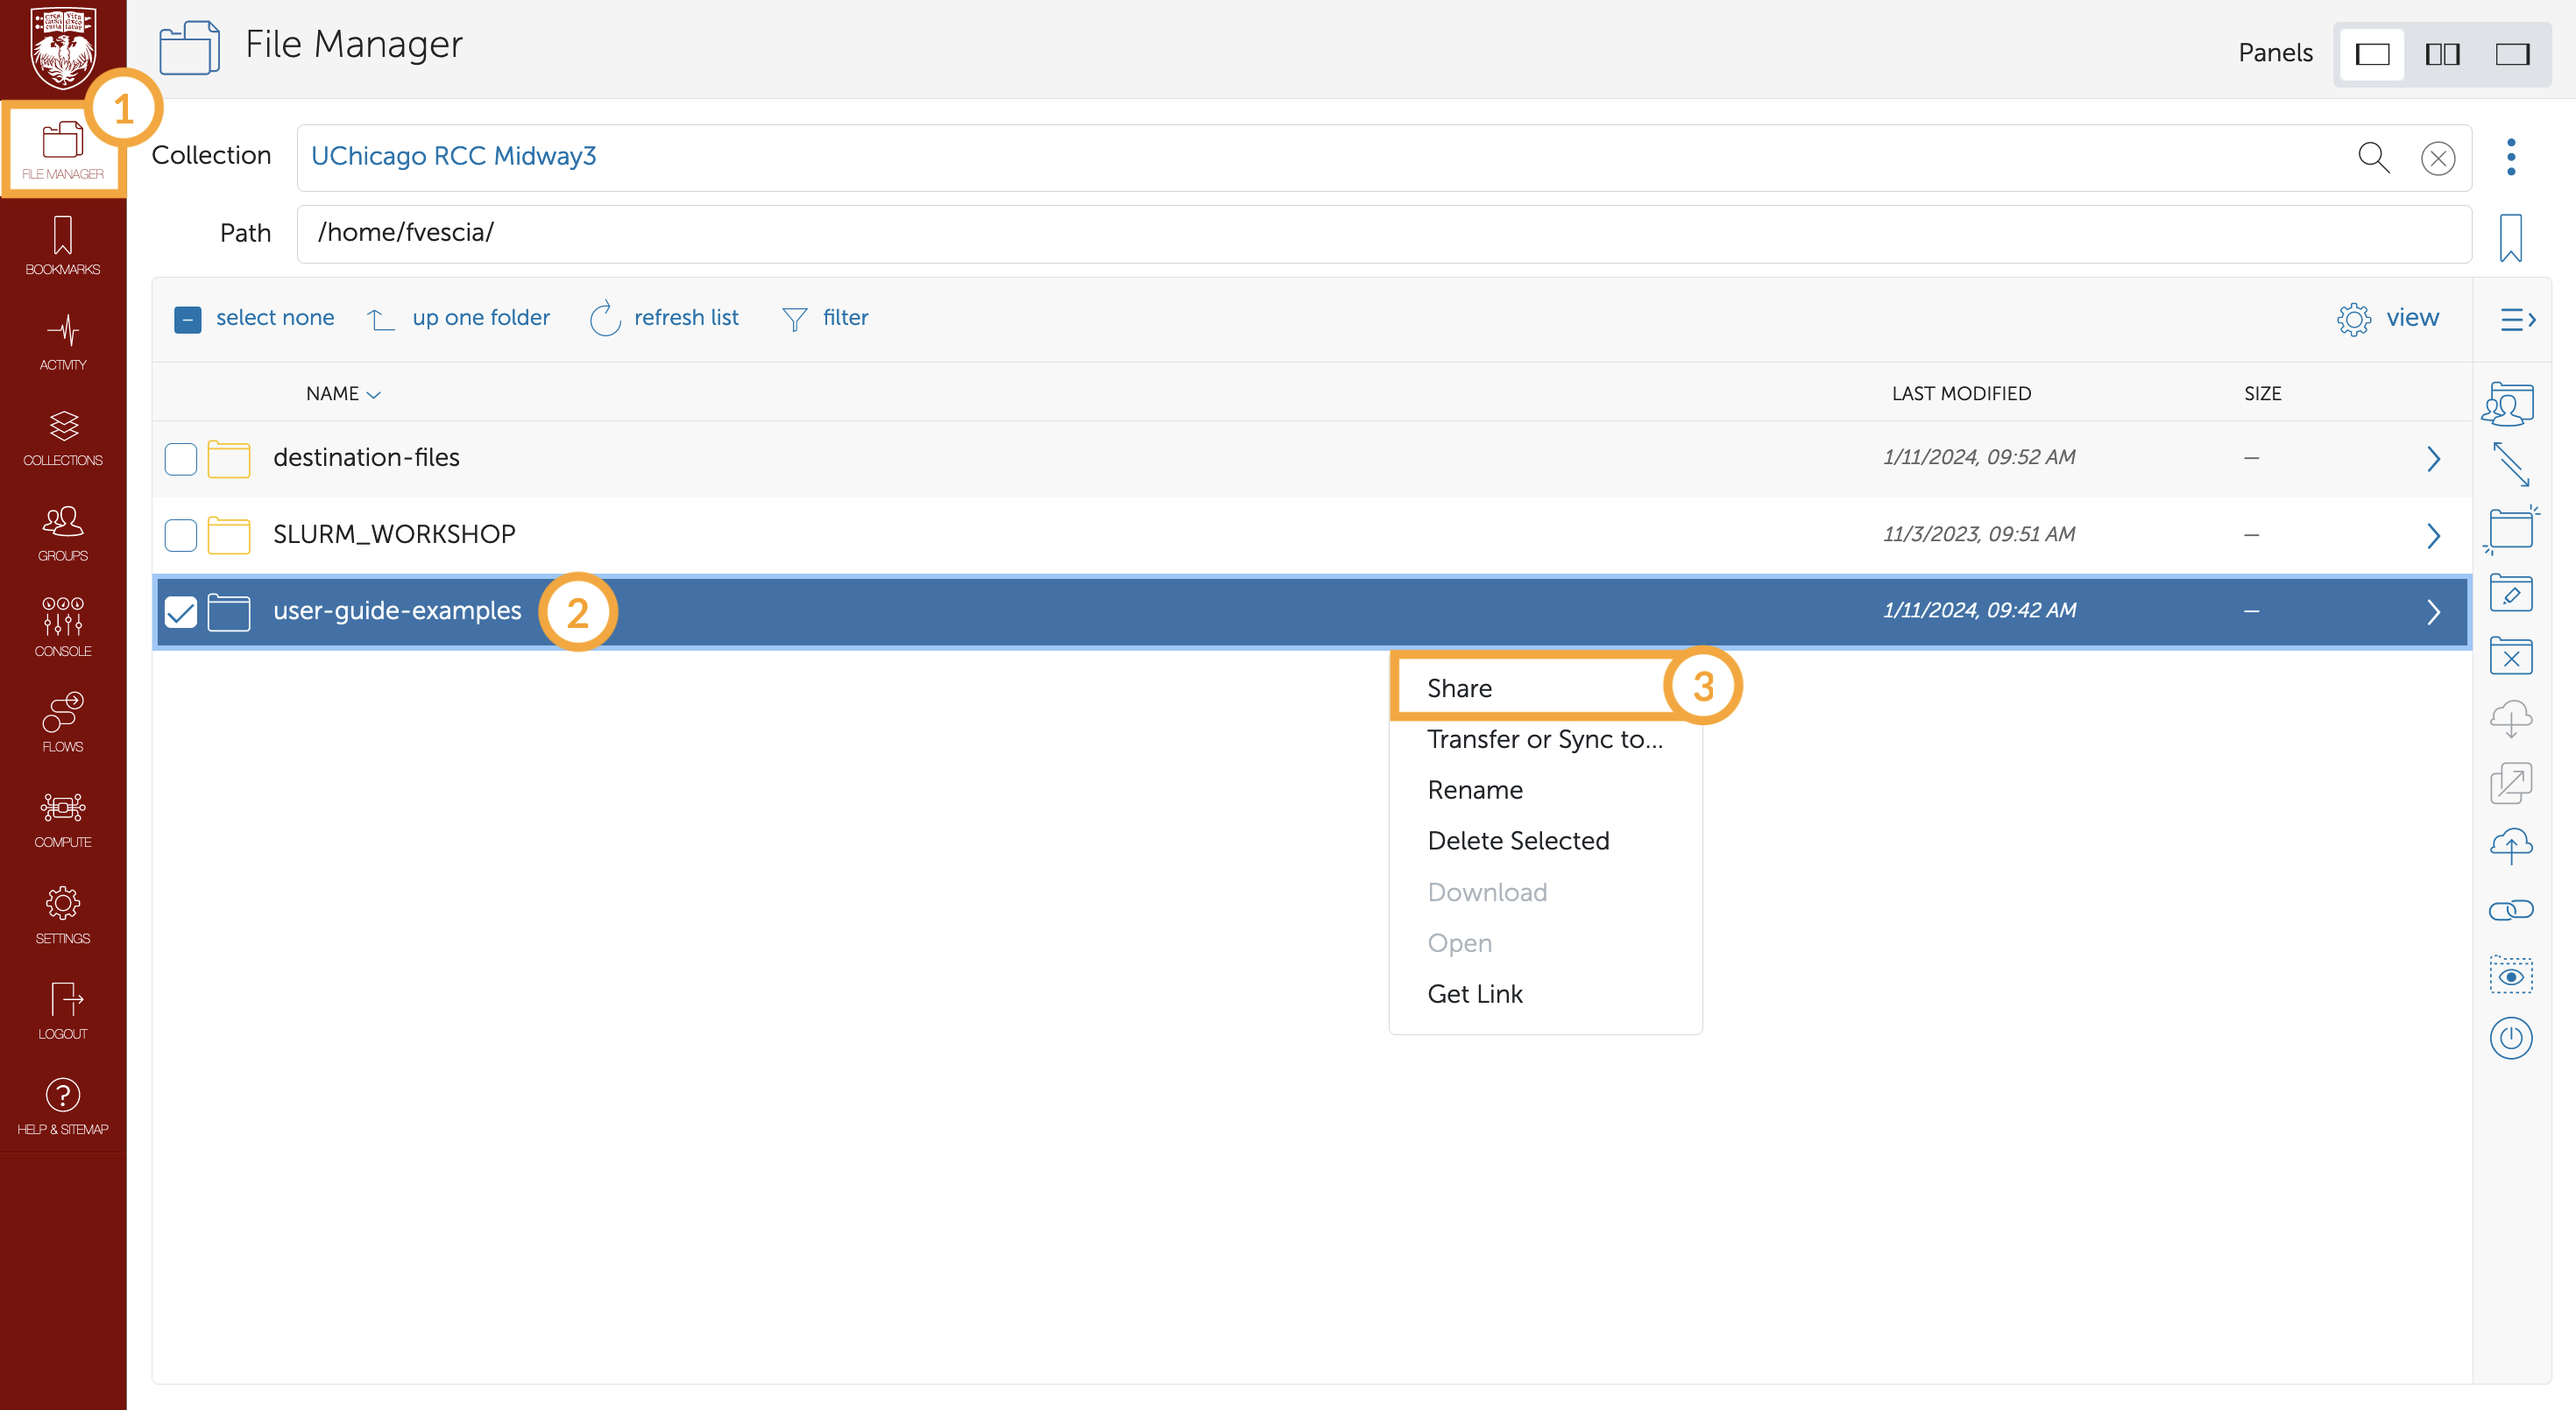
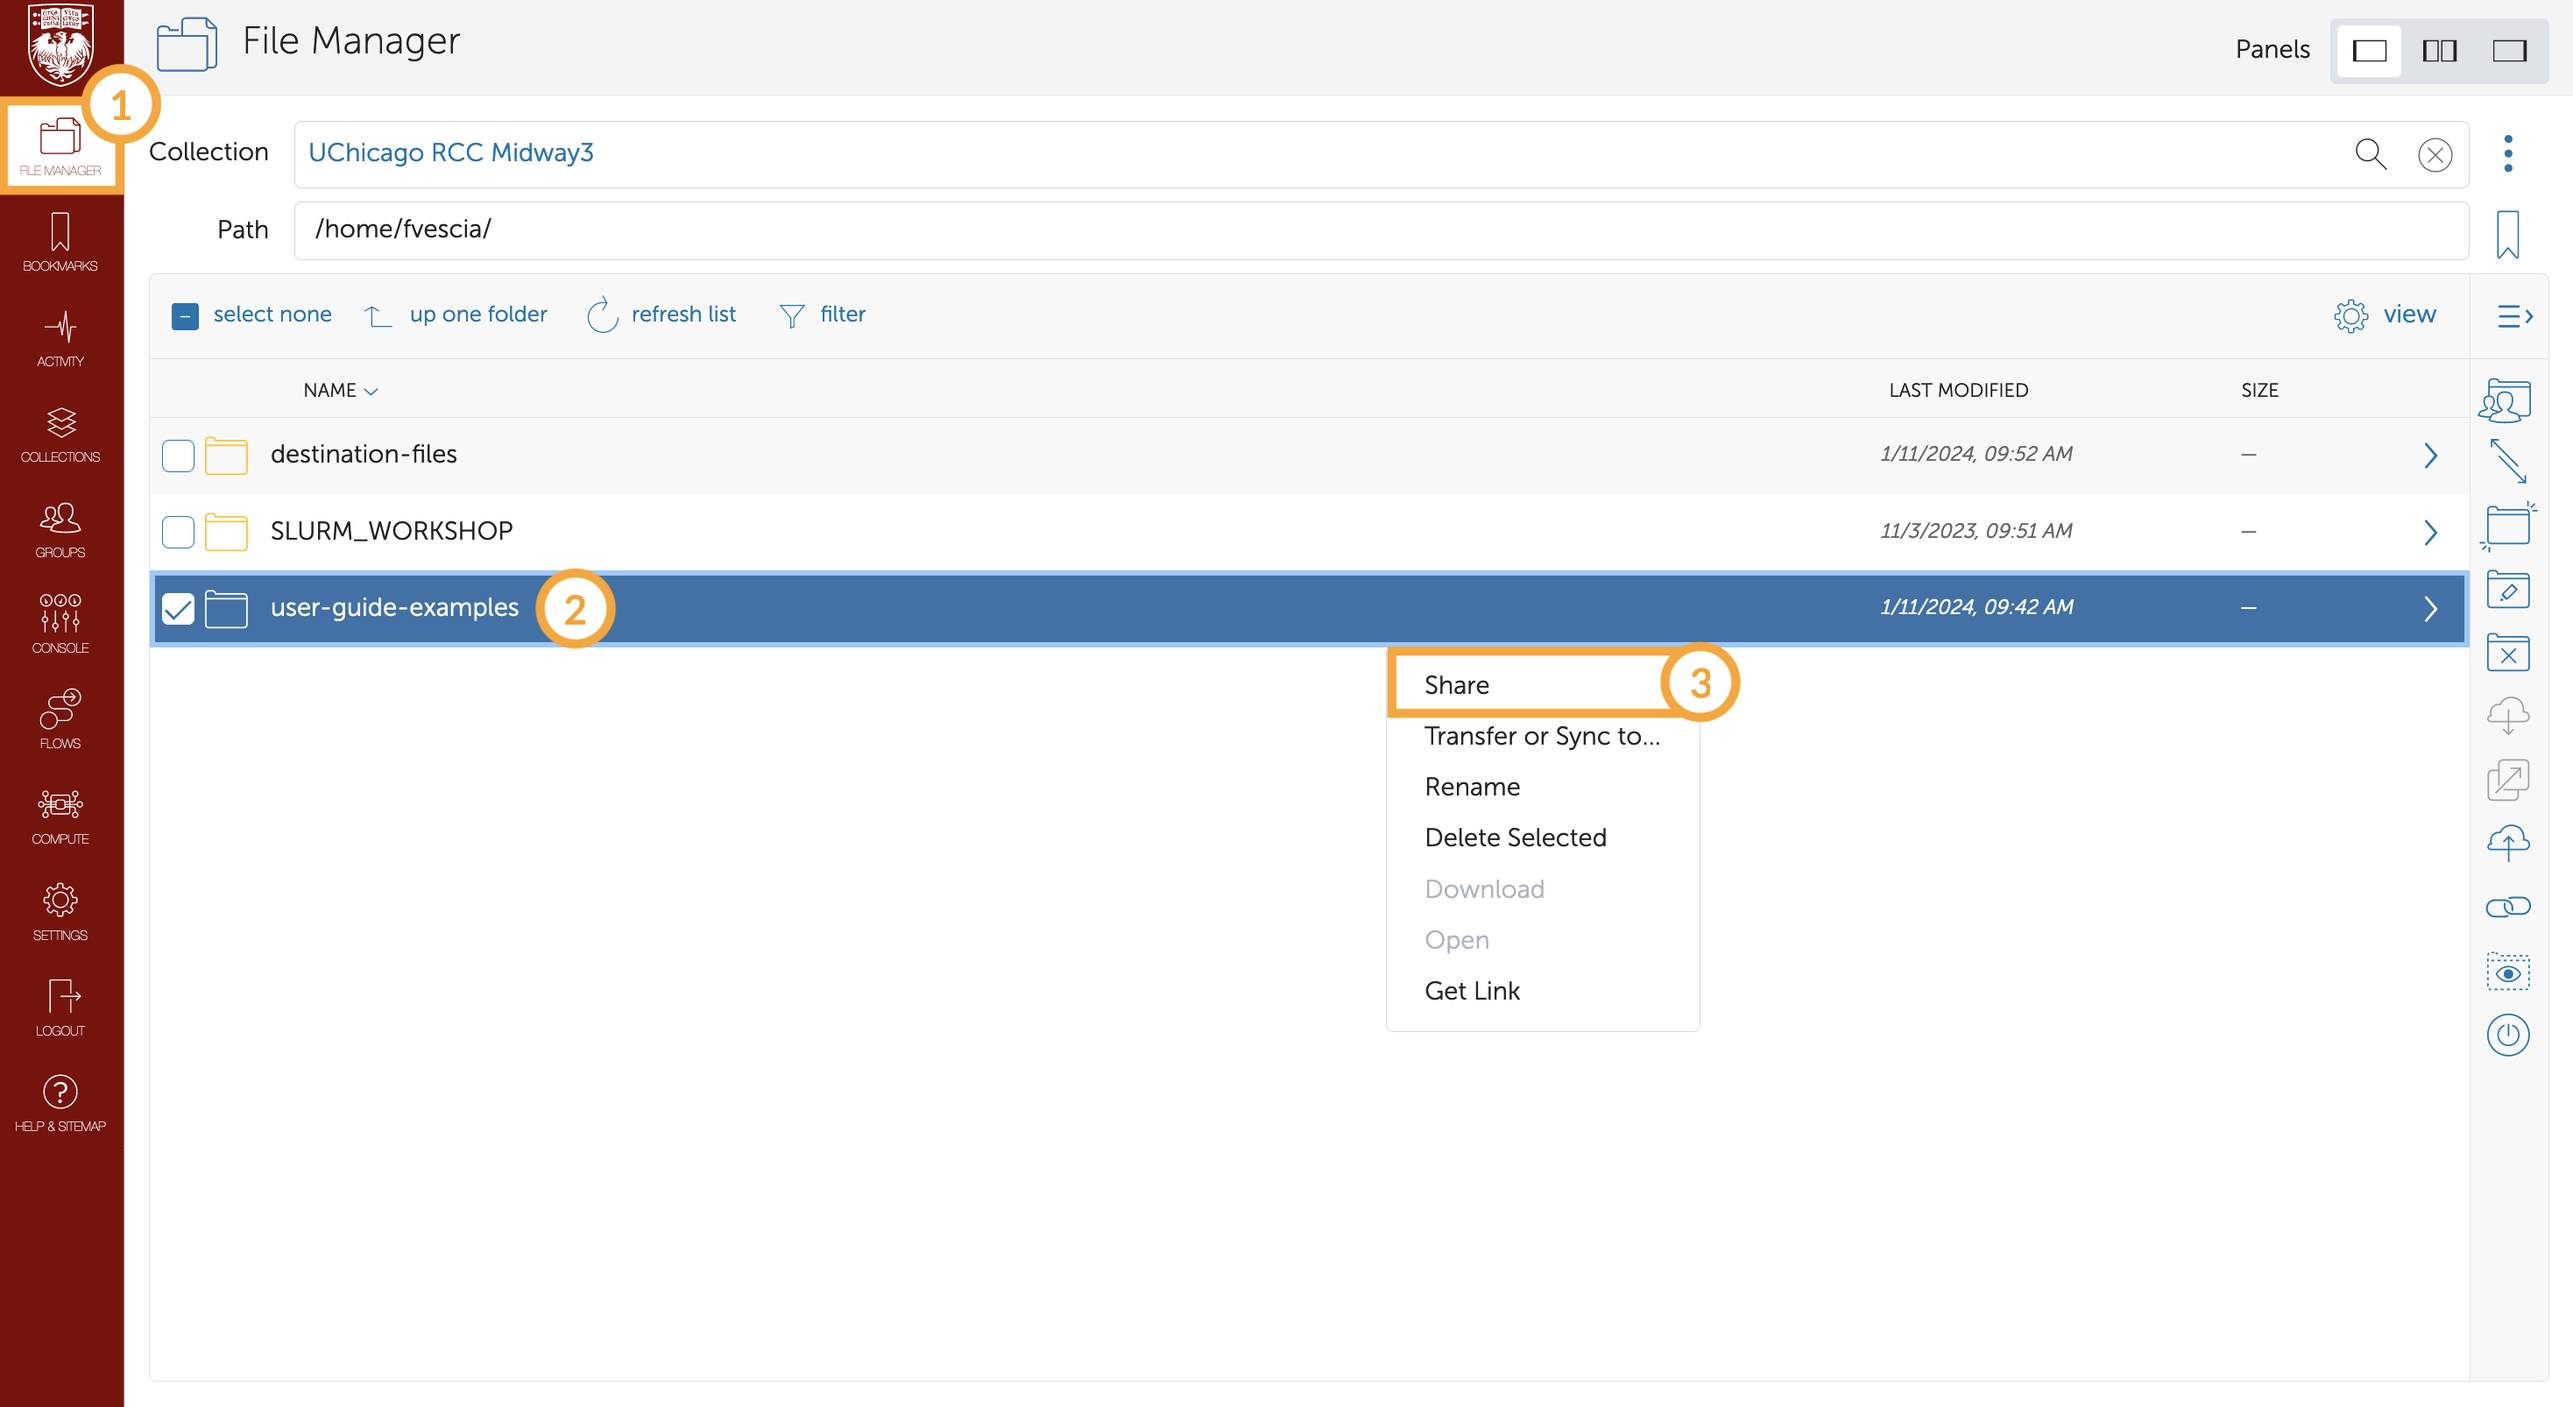
How to create and share a collection

diff --git a/docs/globus-share-files.md b/docs/globus-share-files.md
@@ -1,6 +1,6 @@
 # Share Files with Globus
 
-**Globus** is a robust file-sharing and transfer service. Other sections of this user guide detail how to <a href=‘https://rcc-uchicago.github.io/user-guide/globus/’ target=‘_blank’>browse files with Globus</a> and <a href=‘URL’ target=‘_blank’>move files between different Globus endpoints</a>. This page explains how to share files with collaborators using Globus.
+**Globus** is a robust file-sharing and transfer service. Other sections of this user guide detail how to <a href=‘https://rcc-uchicago.github.io/user-guide/globus/’ target=‘_blank’>browse files with Globus</a> and <a href=‘URL’ target=‘_blank’>move files between different Globus endpoints</a>. This page explains how to share files with external collaborators, who have several options for logging into Globus. (Anyone who belongs to your RCC group already has file access via the group's <a href='https://rcc-uchicago.github.io/user-guide/storage/?h=#research-space'>project directories</a>.)
 
 ## Select Files to Share
 Go to the "File Manager" tab of the <a href='https://globus.rcc.uchicago.edu/'>Globus Web App</a>. Navigate to the folder that houses the files you want to share (<a href='https://rcc-uchicago.github.io/user-guide/globus/#browse-your-files'>read more about browsing files here</a>), right-click it, and select "Share" from the menu that appears:
@@ -8,7 +8,46 @@ Go to the "File Manager" tab of the <a href='https://globus.rcc.uchicago.edu/'>G
 <p align='center'>
 <img src='../figs/select-files.png'
 width='650'
-alt=''/>
+alt='Globus web app open to the File Manager page with a folder selected.'/>
 </p>
 
-Text
+## Create a Collection
+If the files you have selected are not already part of a Guest Collection, you will see a message that "No collections match that filter." Click "Add Guest Collection" in the upper-right corner to create a collection of your selected files to share with external collaborators:
+
+<p align='center'>
+<img src='../figs/add-guest-collection.png'
+width='650'
+alt='Globus File Manager open to the Collections tab with the Add Guest Collection button highlighted.'/>
+</p>
+
+The Directory field will default to the folder that houses the files you have selected to share. Fill in the Display Name field and any other fields you like, then click "Create Collection":
+
+<p align='center'>
+<img src='../figs/create-collection.png'
+width='650'
+alt='Globus File Manager open to Create new Guest Collection with the Create Collection button highlighted.'/>
+</p>
+
+The Filer Manager will open to the Permissions tab of your new collection, which you can now share.
+
+## Share a Collection
+If the files you have selected are already part of a Guest Collection, click the collection name:
+
+<p align='center'>
+<img src='../figs/collection-name.png'
+width='650'
+alt='Globus File Manager open to Create new Guest Collection with the Create Collection button highlighted.'/>
+</p>
+
+The File Manager will open to an overview of the collection. Click "Permissions" in the upper-left menu bar, then click "Add Permissions – Share With" in the upper-right corner:
+
+<p align='center'>
+<img src='../figs/collection-permissions.png'
+width='650'
+alt='User Guide Examples collection open to Permissions with the Add Permissions button highlighted.'/>
+</p>
+
+The `/` in the Path field indicates you are in the top-level directory of a collection. If you only want to grant permissions for a sub-directory, click "Browse" to navigate into the sub-directory you want to share. Enter your collaborator's Globus username or search for them via email. If they do not already have a Globus login, they can follow the steps below to create one.
+
+## Globus Login Options for External Collaborators
+
